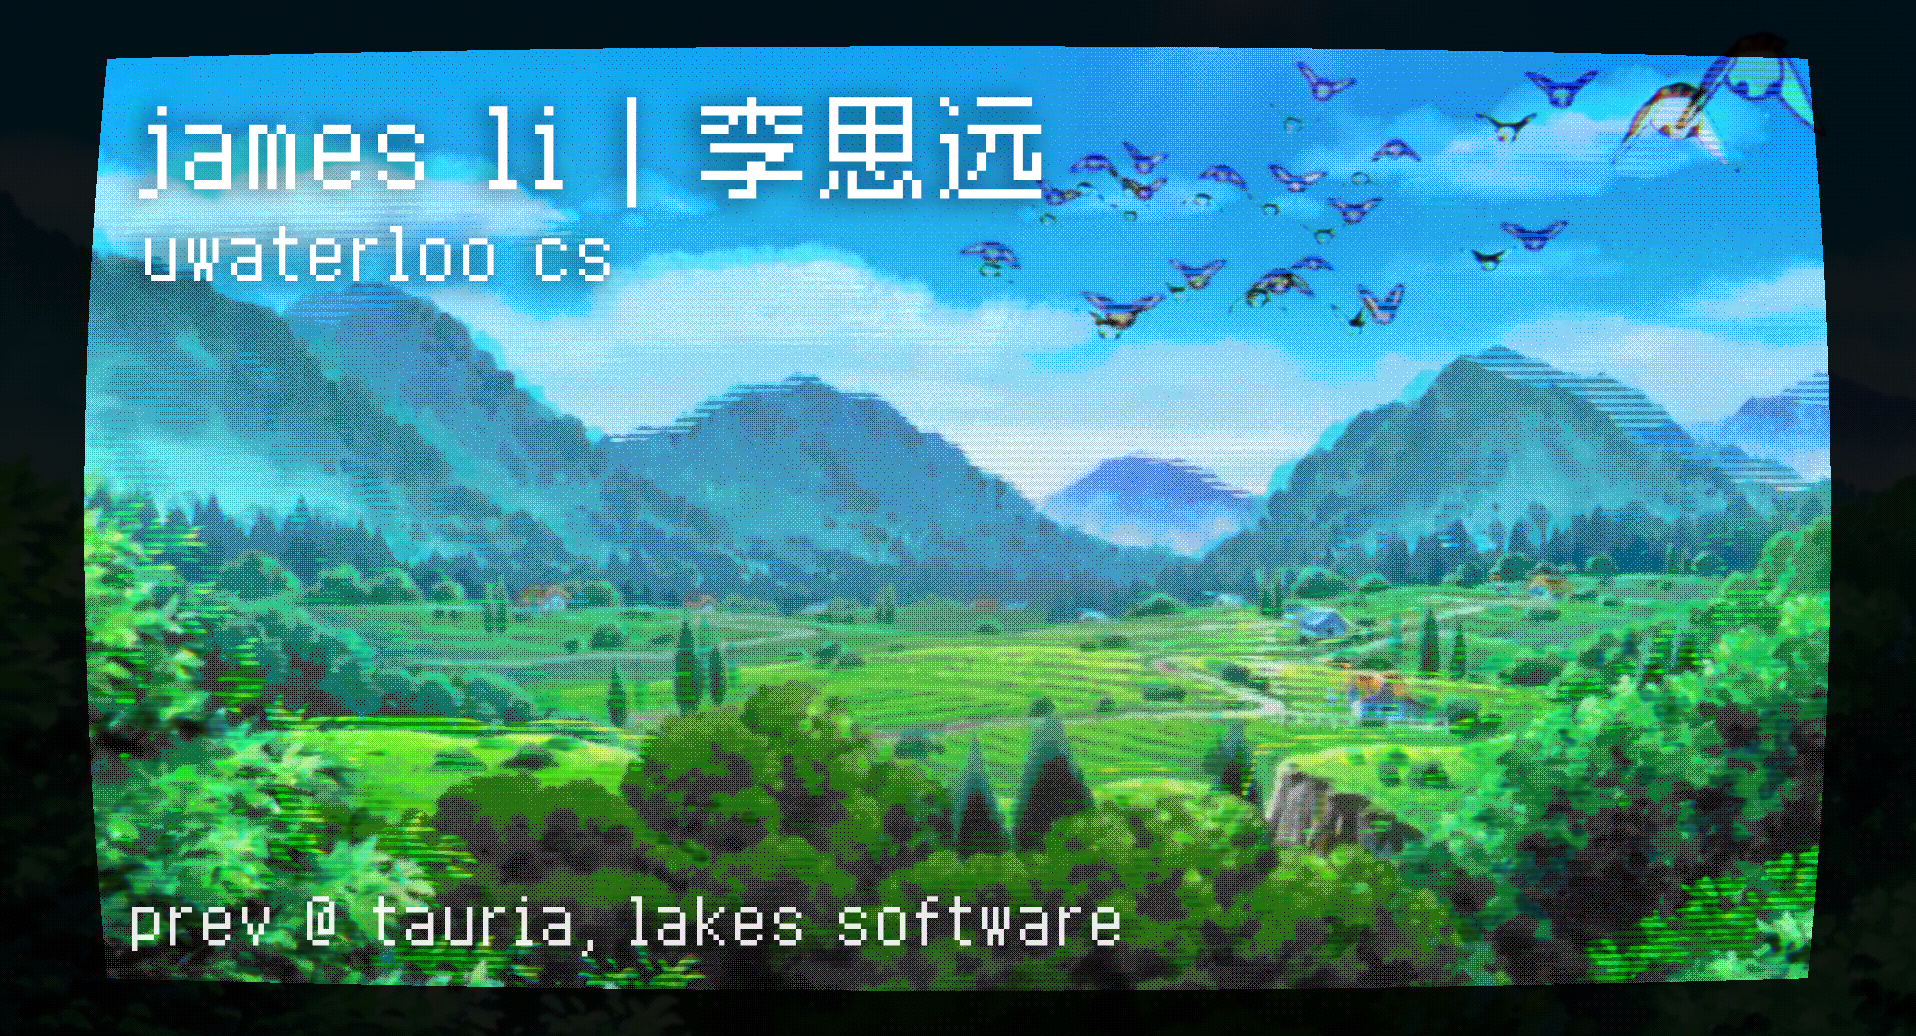
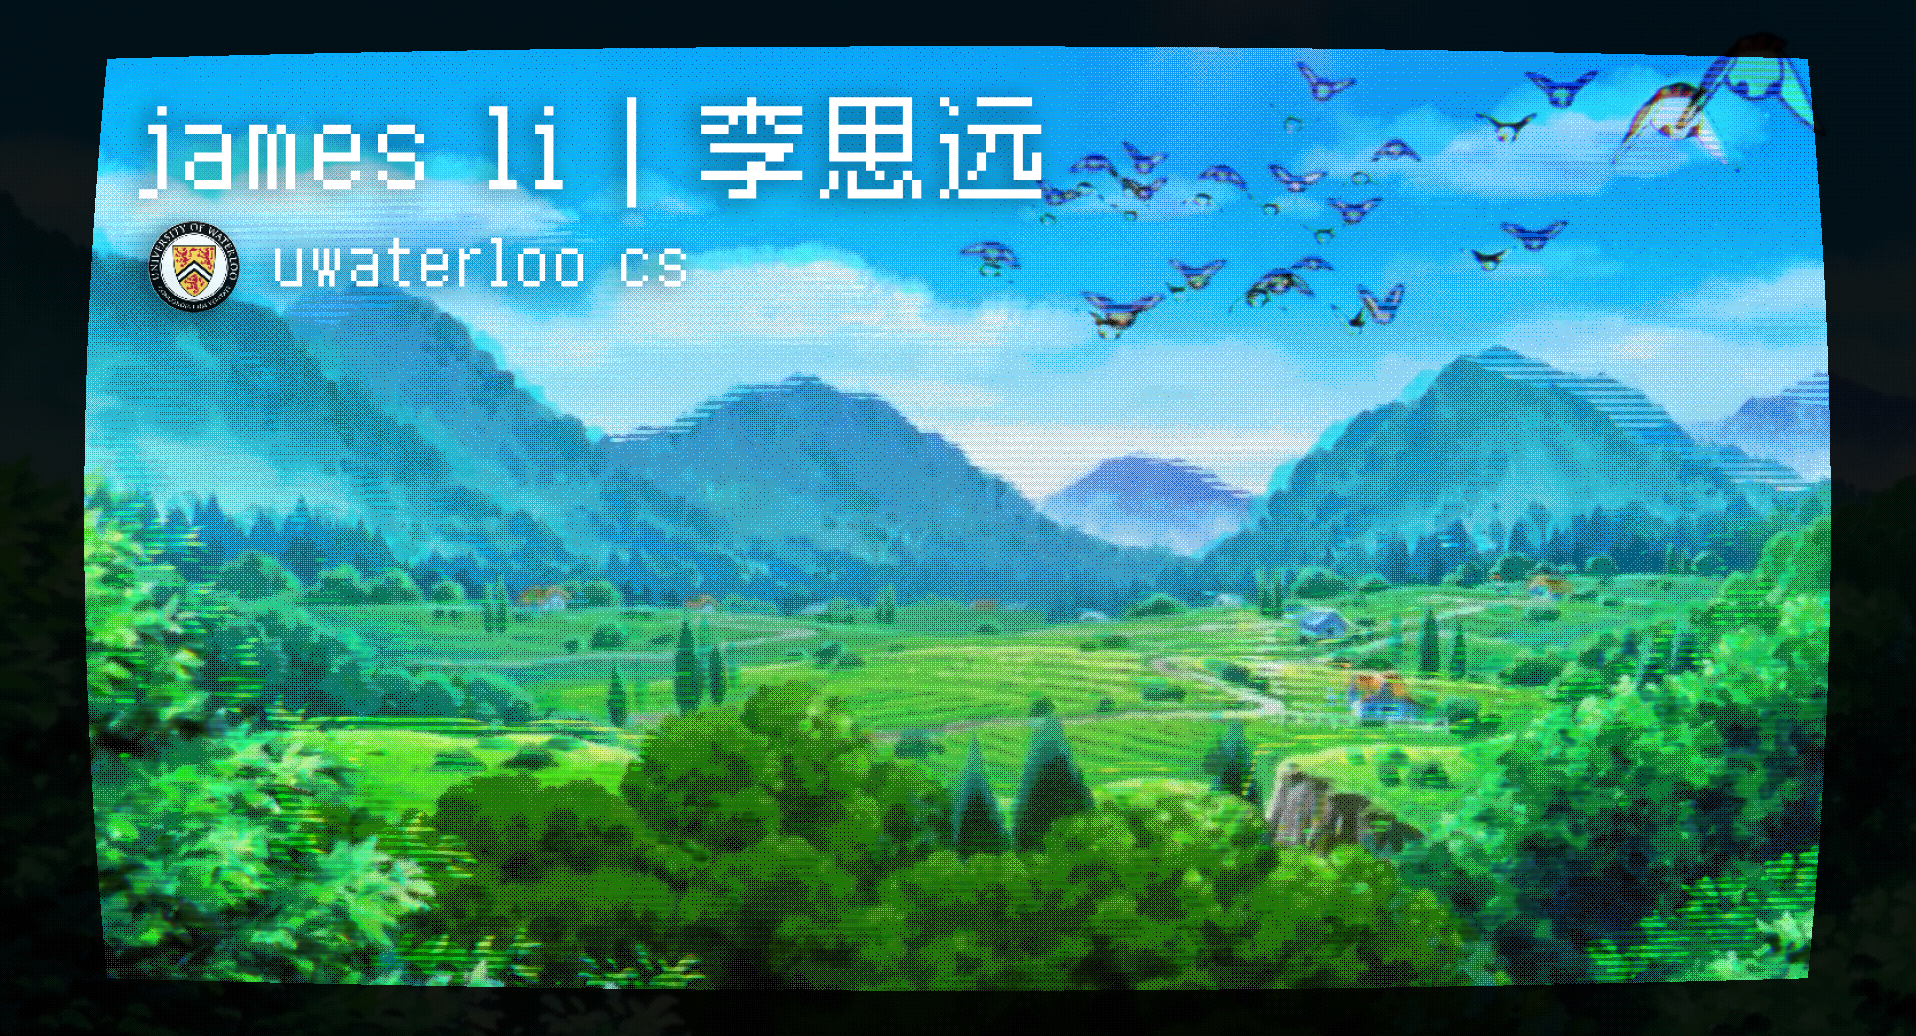
fix: info

Changed region(s): [[0.0616, 0.8649, 0.5851, 0.9266], [0.0616, 0.2162, 0.3695, 0.3089]]

diff --git a/app/page.tsx b/app/page.tsx
@@ -8,7 +8,7 @@ import useModifierKey from "./components/ModifierKey";
 import { isMobile } from "react-device-detect";
 import { GrLinkedin } from "react-icons/gr";
 import { FaGithub, FaInstagram, FaXTwitter, FaSpotify } from "react-icons/fa6";
-import james from "./assets/jame3.jpg";
+import james from "./assets/james.jpg";
 import uw from "./assets/uw.png";
 import western from "./assets/western.png";
 import fdotinc from "./assets/fdotinc.png";
@@ -147,7 +147,7 @@ export default function Home() {
                         uwaterloo
                       </span>
                     </span>
-                    <div className="flex flex-col gap-3 text-darkBeige1 bg-midBeige1/40 z-10 lg:p-2 p-3 w-full items-start text-center relative rounded-xl backdrop-blur-sm">
+                    <div className="flex flex-col gap-5 text-darkBeige1 bg-midBeige1/40 z-10 lg:p-2 p-3 w-full items-start text-center relative rounded-xl backdrop-blur-sm">
                       <h1 className="lg:bg-transparent rounded-lg sideh1 pl-6 [-text-indent:1.5rem]">
                         <span className="flex items-center justify-start gap-2 text-darkBeige3">
                           previously:
@@ -262,7 +262,7 @@ export default function Home() {
                     <h1 className="h1descr break-normal lg:mt-5 mt-8 pb-2 p-1">
                       <div className="flex items-center">recently:</div>
                       <ul className="descr flex flex-col gap-8 md:gap-5 mt-4">
-                        <li className="flex items-center gap-x-1 flex-wrap">
+                        <li className="flex items-center gap-x-1 gap-y-2 flex-wrap">
                          - won
                           <Image
                             src={polymarket}
@@ -276,7 +276,7 @@ export default function Home() {
                           </LinkSlider>
                         </li>
 
-                        <li className="flex items-center gap-x-1 flex-wrap">
+                        <li className="flex items-center gap-x-1 gap-y-2 flex-wrap">
                           - built
                           <LinkSlider href={`/flowboard`} mode="dark" className="relative flex" isNextLink>
                             flowboard
@@ -291,13 +291,13 @@ export default function Home() {
                           <span>hackwestern,</span>
                           winning 2nd
                         </li>
-                        
-                        <li>
+
+                        <li className="gap-y-2">
                           - cracked virality with <span className="font-bold">5m+</span> views on instagram
                         </li>
-                        
-                        <li className="flex items-center gap-x-1 flex-wrap">
-                          - 
+
+                        <li className="flex items-center gap-x-1 gap-y-2 flex-wrap">
+                          -
                           <LinkSlider href={`/sf`} mode="dark" className="relative flex" isNextLink>
                             visited sf
                           </LinkSlider>

diff --git a/app/components/Cmd.tsx b/app/components/Cmd.tsx
@@ -126,12 +126,6 @@ export default function CommandPalette() {
             window.open("https://www.instagram.com/jamesdialedin/", "_blank")
           );
           break;
-        case "Digit5":
-        case "Numpad5":
-          openLink(() =>
-            window.open("https://github.com/jli2007/jamesli", "_blank")
-          );
-          break;
       }
     };
 
@@ -289,37 +283,10 @@ export default function CommandPalette() {
                     <span className="flex-1">instagram</span>
                     <Shortcut>4</Shortcut>
                   </Command.Item>
-                  <Command.Item
-                    value="website repository github jame repo"
-                    onSelect={() =>
-                      openLink(() =>
-                        window.open(
-                          "https://github.com/JLi2007/JamesLi",
-                          "_blank"
-                        )
-                      )
-                    }
-                    className="flex items-center gap-2 px-3 py-2 text-sm text-midBeige2/90 rounded hover:bg-darkBeige1/40 cursor-pointer data-[selected=true]:bg-darkBeige1/40"
-                  >
-                    <GoRepo className="h-4 w-4" />
-                    <span className="flex-1">website repository</span>
-                    <Shortcut>5</Shortcut>
-                  </Command.Item>
                 </Command.Group>
               </Command.List>
               <div className="border-t border-stone-700 px-3 py-4">
-                <div className="flex items-center justify-between text-midBeige2/90 text-xs">
-                  <div className="flex items-center gap-2">
-                    <span>use</span>
-                    <kbd className="px-0.5 py-0.5 rounded bg-stone-800 text-midBeige2/90">
-                      ↑
-                    </kbd>
-                    |
-                    <kbd className="px-0.5 py-0.5 rounded bg-stone-800 text-midBeige2/90">
-                      ↓
-                    </kbd>
-                    <span>to toggle</span>
-                  </div>
+                <div className="flex items-center justify-end text-midBeige2/90 text-xs">
                   <div className="flex items-center gap-2">
                     <span>press</span>
                     <kbd className="px-1.5 py-0.5 rounded bg-stone-800 text-midBeige2/90">

diff --git a/app/components/Link.tsx b/app/components/Link.tsx
@@ -71,42 +71,18 @@ export default function LinkSlider({
     ${className}
   `.trim();
 
-  return (
-    <>
-      <style jsx global>{`
-        @keyframes underline {
-          0% {
-            transform: scaleX(0);
-            transform-origin: left;
-          }
-          49% {
-            transform: scaleX(1);
-            transform-origin: left;
-          }
-          51% {
-            transform: scaleX(1);
-            transform-origin: right;
-          }
-          100% {
-            transform: scaleX(0);
-            transform-origin: right;
-          }
-        }
-      `}</style>
-      {isNextLink ? (
-        <NextLink href={href} className={baseStyles}>
-          {children}
-        </NextLink>
-      ) : (
-        <a
-          href={href}
-          target="_blank"
-          rel="noopener noreferrer"
-          className={baseStyles}
-        >
-          {children}
-        </a>
-      )}
-    </>
+  return isNextLink ? (
+    <NextLink href={href} className={baseStyles}>
+      {children}
+    </NextLink>
+  ) : (
+    <a
+      href={href}
+      target="_blank"
+      rel="noopener noreferrer"
+      className={baseStyles}
+    >
+      {children}
+    </a>
   );
 }

diff --git a/app/posts.ts b/app/posts.ts
@@ -8,7 +8,7 @@ interface Post {
 export const posts: Post[] = [
   {
     slug: "places",
-    title: "places of the world 📍",
+    title: "places of the world",
     date: "ongoing",
     pinned: true,
   },
@@ -20,13 +20,13 @@ export const posts: Post[] = [
   },
     {
     slug: "forest",
-    title: "树林 (the forest)",
+    title: "a tribute to freedom",
     date: "dec 2025",
     pinned: false,
   },
   {
     slug: "sf",
-    title: "✈ visiting sf between 2 midterms",
+    title: "visiting sf between 2 midterms",
     date: "oct 2025",
     pinned: false,
   },
@@ -37,14 +37,8 @@ export const posts: Post[] = [
     pinned: false,
   },
   {
-    slug: "footy",
-    title: "highlights ⚽",
-    date: "may 2025",
-    pinned: false,
-  },
-  {
     slug: "futbol",
-    title: "⚽ players i like",
+    title: "players i enjoy watching",
     date: "mar 2025",
     pinned: false,
   },

diff --git a/app/globals.css b/app/globals.css
@@ -50,12 +50,29 @@
 
   @keyframes slide-down {
     from {
-      opacity: 0;
       transform: translateY(-75%);
     }
     to {
-      opacity: 1;
       transform: translateY(0);
+    }
+  }
+
+  @keyframes underline {
+    0% {
+      transform: scaleX(0);
+      transform-origin: left;
+    }
+    49% {
+      transform: scaleX(1);
+      transform-origin: left;
+    }
+    51% {
+      transform: scaleX(1);
+      transform-origin: right;
+    }
+    100% {
+      transform: scaleX(0);
+      transform-origin: right;
     }
   }
 
@@ -96,12 +113,12 @@ body {
 }
 @layer base {
   ::-webkit-scrollbar {
-    width: 6px;
+    width: 5px;
     height: 10px;
   }
 
   ::-webkit-scrollbar-track {
-    background: #292524;
+    background: #211e1d;
   }
 
   ::-webkit-scrollbar-thumb {

diff --git a/app/[slug]/page.tsx b/app/[slug]/page.tsx
@@ -16,7 +16,6 @@ import Forest from "./mdx/forest.mdx";
 import Futbol from "./mdx/futbol.mdx";
 import Music from "./mdx/music.mdx";
 import Places from "./mdx/places.mdx";
-import Quotes from "./mdx/quotes.mdx";
 import Sf from "./mdx/sf.mdx";
 import UWReflection from "./mdx/uw-reflection.mdx";
 
@@ -27,7 +26,6 @@ const MDX_MAP: Record<string, React.ComponentType> = {
   futbol: Futbol,
   music: Music,
   places: Places,
-  quotes: Quotes,
   sf: Sf,
   uwreflection: UWReflection,
   flowboard: Flowboard,

diff --git a/app/components/Sidebar.tsx b/app/components/Sidebar.tsx
@@ -107,7 +107,7 @@ export default function Sidebar() {
 
       <footer className="pt-4 md:pb-0 pb-2 border-t border-white/20 lg:text-xs md:text-sm text-xs text-white/70 flex flex-row items-center lg:justify-end justify-start">
         <span className="shiny-green-dot inline-block mr-2 w-3 h-3" />
-        Last updated: 1/21/2025
+        last updated: 1/27/2025
       </footer>
     </div>
   );

diff --git a/app/[slug]/codeblocks.css b/app/[slug]/codeblocks.css
@@ -317,7 +317,7 @@ pre {
 }
 
 pre[class*="language-"]::-webkit-scrollbar {
-  height: 5px;
+  height: 4px;
 }
 
 pre[class*="language-"]::-webkit-scrollbar-track {
